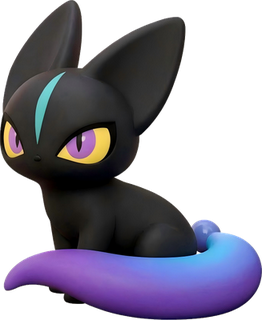
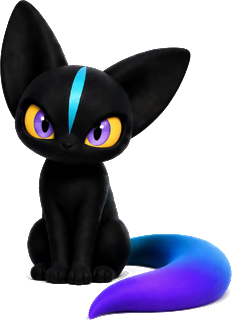
feat: 四姿态素材更新 + 呼吸仅纵向 + 面板目标列表折叠
- 姿态素材重制（坐立/拎起/趴卧/闭眼），skin-cat 增加 rest 姿态与 POSE_DY
  坐姿垂直校准（素材自带影子，脚底扫描会把影底当脚底，导致猫体浮高）
- 呼吸只做纵向缩放，X 宽度不再变化（原横向缩放让猫看起来"变胖变瘦"）
- 面板目标列表超过 3 个时折叠为「⋯」，选中目标后自动收拢

diff --git a/src/renderer/skins/cat/skin-cat.js b/src/renderer/skins/cat/skin-cat.js
@@ -1,8 +1,8 @@
-// skin-cat.js — 小黑猫皮肤：三姿态（idle 坐立 / sleep 趴卧 / walk 拎起）
+// skin-cat.js — 小黑猫皮肤：四姿态（idle 坐立 / walk 拎起 / rest 趴卧 / sleep 闭眼深睡）
 // 单层渲染：整猫一体呼吸；拖拽绕后颈弹簧摆；素材替换走 scripts/swap-pose.cjs
 (function () {
   const POSE_FILES = {
-    idle: "cat-idle.png", walk: "cat-walk.png", sleep: "cat-sleep.png",
+    idle: "cat-idle.png", walk: "cat-walk.png", rest: "cat-rest.png", sleep: "cat-sleep.png",
   };
   const MOOD_POSE = {
     idle: "idle", sleep: "sleep",   // alert/ask/celebrate 已按需求移除
@@ -26,6 +26,9 @@
        * （idle 14px / ask 89px / sleep 89px…），按图片底边对齐会让角色悬空
        * （趴睡会飘在任务栏上方）。渲染统一按脚底对齐画布底——窗口底即脚底，
        * 任务栏偏移即微埋量。 */
+      /* 姿态垂直微调（canvas px，正=下移）：坐姿素材影子底被当脚底 → 浮高；
+         24 canvas px ≈ 屏幕 10px（×0.42），对齐 C# 壳的 DyOff=10 */
+      const POSE_DY = { idle: 24 };
       const bottomRow = {};
       for (const [k, img] of Object.entries(imgs)) {
         const oc = document.createElement("canvas");
@@ -64,7 +67,7 @@
         const ox = Math.floor((cvs.width - img.width) / 2);
         // 脚底对齐画布底：各姿态底部留白不同（idle 14px / sleep 89px…），
         // 按图片底边会悬空。bottomRow 无数据（异常）时回退图片底边。
-        const oy = cvs.height - 1 - (bottomRow[pose] ?? img.height - 1);
+        const oy = cvs.height - 1 - (bottomRow[pose] ?? img.height - 1) + (POSE_DY[pose] || 0);
         const filter = dragging ? "none" : (MOOD_FILTER[mood] || "none");
         const breath = Math.sin((t / BREATH.period) * Math.PI * 2);
         // 拎起摆动弹簧：角度向速度目标收敛（主进程 16ms 发一次光标水平速度）
@@ -80,7 +83,7 @@
         }
         ctx.filter = filter;
         ctx.translate(cx, cy);
-        ctx.scale(1 + BREATH.bodyAmp * breath, 1 + BREATH.bodyAmp * 0.6 * breath);
+        ctx.scale(1, 1 + BREATH.bodyAmp * breath);   // 呼吸只做纵向：X 宽度不变
         ctx.translate(-cx, -cy);
         ctx.drawImage(img, ox, oy);
         ctx.restore();

diff --git a/src/renderer/bubble.js b/src/renderer/bubble.js
@@ -186,13 +186,20 @@ function goalOf(sk) {
 }
 
 /* 目标竖排：当前目标 22px 大字（点击改名），其余纯文字行（点击切换），末尾虚线新建 */
+/* 折叠：超过 3 个时只留 3 行 + 「⋯」展开；选中某个目标（切换后重渲染）自动收拢 */
+let goalExpanded = false;
 function renderGoalList(sk) {
   const box = $("#goal-list");
   box.replaceChildren();
   if (!sk || !sk.goals?.length) return;
-  const goals = sk.goals.slice(-6).reverse();
-  goals.sort((a, b) => (a.id === sk.currentGoalId ? -1 : b.id === sk.currentGoalId ? 1 : 0));   // 当前目标置顶
-  for (const g of goals) {
+  const pool = sk.goals.slice().reverse();   // 全部目标（新→旧）；折叠态只露前 3 行
+  pool.sort((a, b) => (a.id === sk.currentGoalId ? -1 : b.id === sk.currentGoalId ? 1 : 0));   // 当前目标置顶
+
+  const MAX_VISIBLE = 3;
+  const collapsible = pool.length > MAX_VISIBLE;
+  const rows = (collapsible && !goalExpanded) ? pool.slice(0, MAX_VISIBLE) : pool;
+
+  for (const g of rows) {
     if (g.id === sk.currentGoalId) {
       const el = document.createElement("div");
       el.className = "mt-goal-current";
@@ -208,12 +215,22 @@ function renderGoalList(sk) {
       b.textContent = g.title || I18N.t("goal.untitled");
       b.title = I18N.t("goal.switch") + " · " + I18N.t("dz.del");
       b.addEventListener("click", async () => {
+        goalExpanded = false;   // 选择后收拢
         await jfetch("/api/action", { projectId: curProjectId, action: "switch-goal", params: { id: g.id } });
         loadSkeleton(true);
       });
       bindItemDrag(b, { id: g.id }, g.title || I18N.t("goal.untitled"), { action: "remove-goal" });
       box.appendChild(b);
     }
+  }
+  if (collapsible) {
+    const more = document.createElement("button");
+    more.type = "button";
+    more.className = "mt-goal-tab mt-goal-more";
+    more.textContent = goalExpanded ? I18N.t("goal.less") : I18N.t("goal.more");
+    more.title = goalExpanded ? I18N.t("goal.less.tip") : I18N.t("goal.more.tip");
+    more.addEventListener("click", () => { goalExpanded = !goalExpanded; renderGoalList(curSkeleton); });
+    box.appendChild(more);
   }
   const add = document.createElement("button");
   add.type = "button";

diff --git a/src/renderer/i18n.js b/src/renderer/i18n.js
@@ -43,6 +43,10 @@
       "goal.untitled": "（未命名）",
       "goal.switch": "切换到这个目标",
       "goal.rename": "点击改名",
+      "goal.more": "⋯",
+      "goal.more.tip": "展开其余目标",
+      "goal.less": "收起",
+      "goal.less.tip": "折叠目标列表",
       "proj.switch": "切换项目（点项目名可改名）",
       "pin.on": "已钉住：点此取消常显",
       "pin.off": "钉住：常显不自动收起",
@@ -101,6 +105,10 @@
       "goal.untitled": "(untitled)",
       "goal.switch": "Switch to this goal",
       "goal.rename": "Click to rename",
+      "goal.more": "⋯",
+      "goal.more.tip": "Show all goals",
+      "goal.less": "Collapse",
+      "goal.less.tip": "Collapse the goal list",
       "proj.switch": "Switch project (click name to rename)",
       "pin.on": "Pinned — click to unpin",
       "pin.off": "Pin to keep panel visible",

diff --git a/src/renderer/bubble.css b/src/renderer/bubble.css
@@ -148,6 +148,8 @@ header {
 }
 .mt-goal-tab:hover { color: var(--amber); }
 .mt-goal-tab:active { transform: scale(.96); }
+/* 「⋯」折叠开关：比目标行更弱化，展开态文字为「收起」 */
+.mt-goal-more { color: var(--faint); font-size: 15px; padding: 2px 0; }
 .mt-goal-add {
   border: 1px dashed var(--line2); background: transparent; color: var(--dim);
   font-size: 12px; padding: 3px 10px; border-radius: 999px; cursor: pointer; font-family: inherit;
